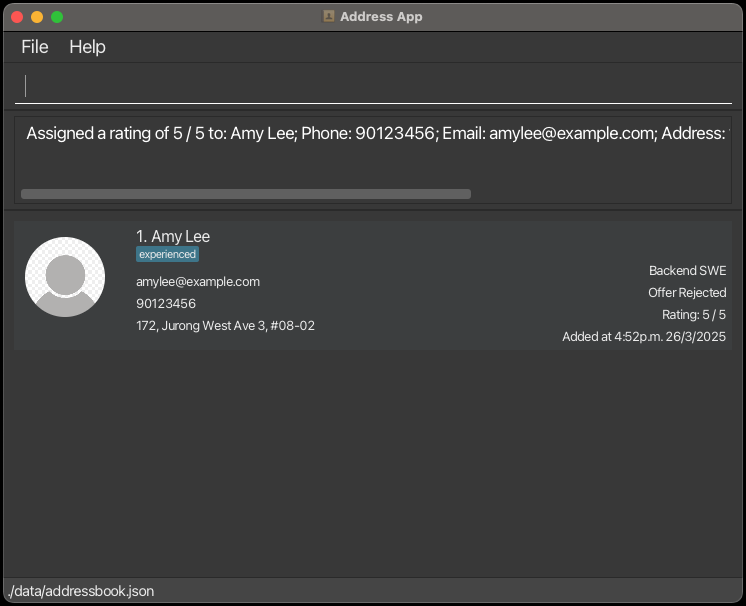
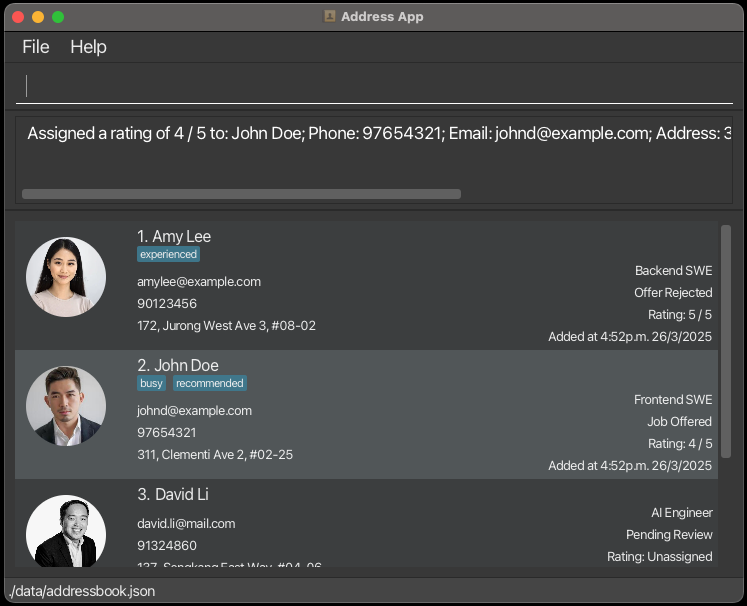
Add and Update screenshots

diff --git a/docs/UserGuide.md b/docs/UserGuide.md
@@ -102,12 +102,15 @@ Type in the command box:
 
 **Example**:
 ```bash
-add n/Lucas p/91234567 e/lucas@design.com j/UX Designer s/Interview t/Creative t/Portfolio
+add n/Alex Yeoh p/91237654 e/alexy@example.com a/34, Chartwell Drive j/Data Analyst s/Interview Scheduled t/Recommended
 ```
 
-[//]: # (![Adding Lucas]&#40;images/add-example.png "Adding a new UX designer to your pipeline"&#41;)
-
 💡 **Pro Tip**: Tags help you categorize candidates for easy searching later!
+
+Command Input:\
+<img title="addCommand" alt="Command Input" src="/images/addCommand_before.png"><br/><br/>
+Result:\
+<img title="addCommand" alt="Result" src="/images/addCommand_after.png"><br/><br/>
 
 ### ✏ Editing Details
 **Command**:  
@@ -115,9 +118,14 @@ add n/Lucas p/91234567 e/lucas@design.com j/UX Designer s/Interview t/Creative t
 
 **Example**:
 ```bash
-edit 2 p/98765432 s/Technical\ Interview
+edit 4 j/Data Scientist p/91238765
 ```
-Updates phone number and status for candidate #2.
+Updates phone number and job position for candidate #4.
+
+Command Input:\
+<img title="editCommand" alt="Command Input" src="/images/editCommand_before.png"><br/><br/>
+Result:\
+<img title="editCommand" alt="Result" src="/images/editCommand_after.png"><br/><br/>
 
 ### 🗑 Removing Applicants
 **Command**:  
@@ -125,11 +133,14 @@ Updates phone number and status for candidate #2.
 
 **Example**:
 ```bash
-delete id/3 --force
+delete n/Alex Yeoh --force
 ```
-Skips confirmation for quick removal.
+💡 **Pro Tip**: Adding `--force` skips confirmation for quick removal.
 
-[//]: # (![Delete Warning]&#40;images/delete-warning.png "We double-check before saying goodbye"&#41;)
+Command Input:\
+<img title="deleteCommand" alt="Command Input" src="/images/deleteCommand_before.png"><br/><br/>
+Result:\
+<img title="deleteCommand" alt="Result" src="/images/deleteCommand_after.png"><br/><br/>
 
 [🔝 Back to top](#-recruittrack-user-guide)
 
@@ -152,8 +163,13 @@ Move candidates through your pipeline:
 
 **Example**:
 ```bash
-update id/5 s/Interview
+update n/John Doe s/Job Offered
 ```
+
+Command Input:\
+<img title="updateCommand" alt="Command Input" src="/images/updateCommand_before.png"><br/><br/>
+Result:\
+<img title="updateCommand" alt="Result" src="/images/updateCommand_after.png"><br/><br/>
 
 ### ⭐ Rating Candidates
 Give 1-5 star ratings:
@@ -167,7 +183,11 @@ rate id/2 r/4
 ```
 Now candidate #2 has a shiny 4-star rating!
 
-[//]: # (![Rating Display]&#40;images/rating-display.png "Stars help you remember top candidates"&#41;)
+Command Input:\
+<img title="rateCommand" alt="Command Input" src="/images/rateCommand_before.png"><br/><br/>
+Result:\
+<img title="rateCommand" alt="Result" src="/images/rateCommand_after.png"><br/><br/>
+
 
 [🔝 Back to top](#-recruittrack-user-guide)
 
@@ -189,9 +209,14 @@ Find candidates by any detail:
 
 **Example**:
 ```bash
-search j/Developer s/Interview
+search j/Frontend SWE
 ```
-Shows all developers currently in interviews.
+Shows all frontend developers.
+
+Command Input:\
+<img title="searchCommand" alt="Command Input" src="/images/searchCommand_before.png"><br/><br/>
+Result:\
+<img title="searchCommand" alt="Result" src="/images/searchCommand_after.png"><br/><br/>
 
 ### 🔄 Sorting Your View
 Organize by what matters most:
@@ -206,9 +231,14 @@ Organize by what matters most:
 
 **Example**:
 ```bash
-sort time/
+sort n/
 ```
-Shows newest applicants first.
+Shows applicants in alphabetical order.
+
+Command Input:\
+<img title="sortCommand" alt="Command Input" src="/images/sortCommand_before.png"><br/><br/>
+Result:\
+<img title="sortCommand" alt="Result" src="/images/sortCommand_after.png"><br/><br/>
 
 [🔝 Back to top](#-recruittrack-user-guide)
 
@@ -244,6 +274,8 @@ Current Status:
 - Screening: 12
 - Interview: 8
 ```
+
+<img title="summary" alt="summary" src="/images/summary.png"><br/><br/>
 
 [🔝 Back to top](#-recruittrack-user-guide)
 
